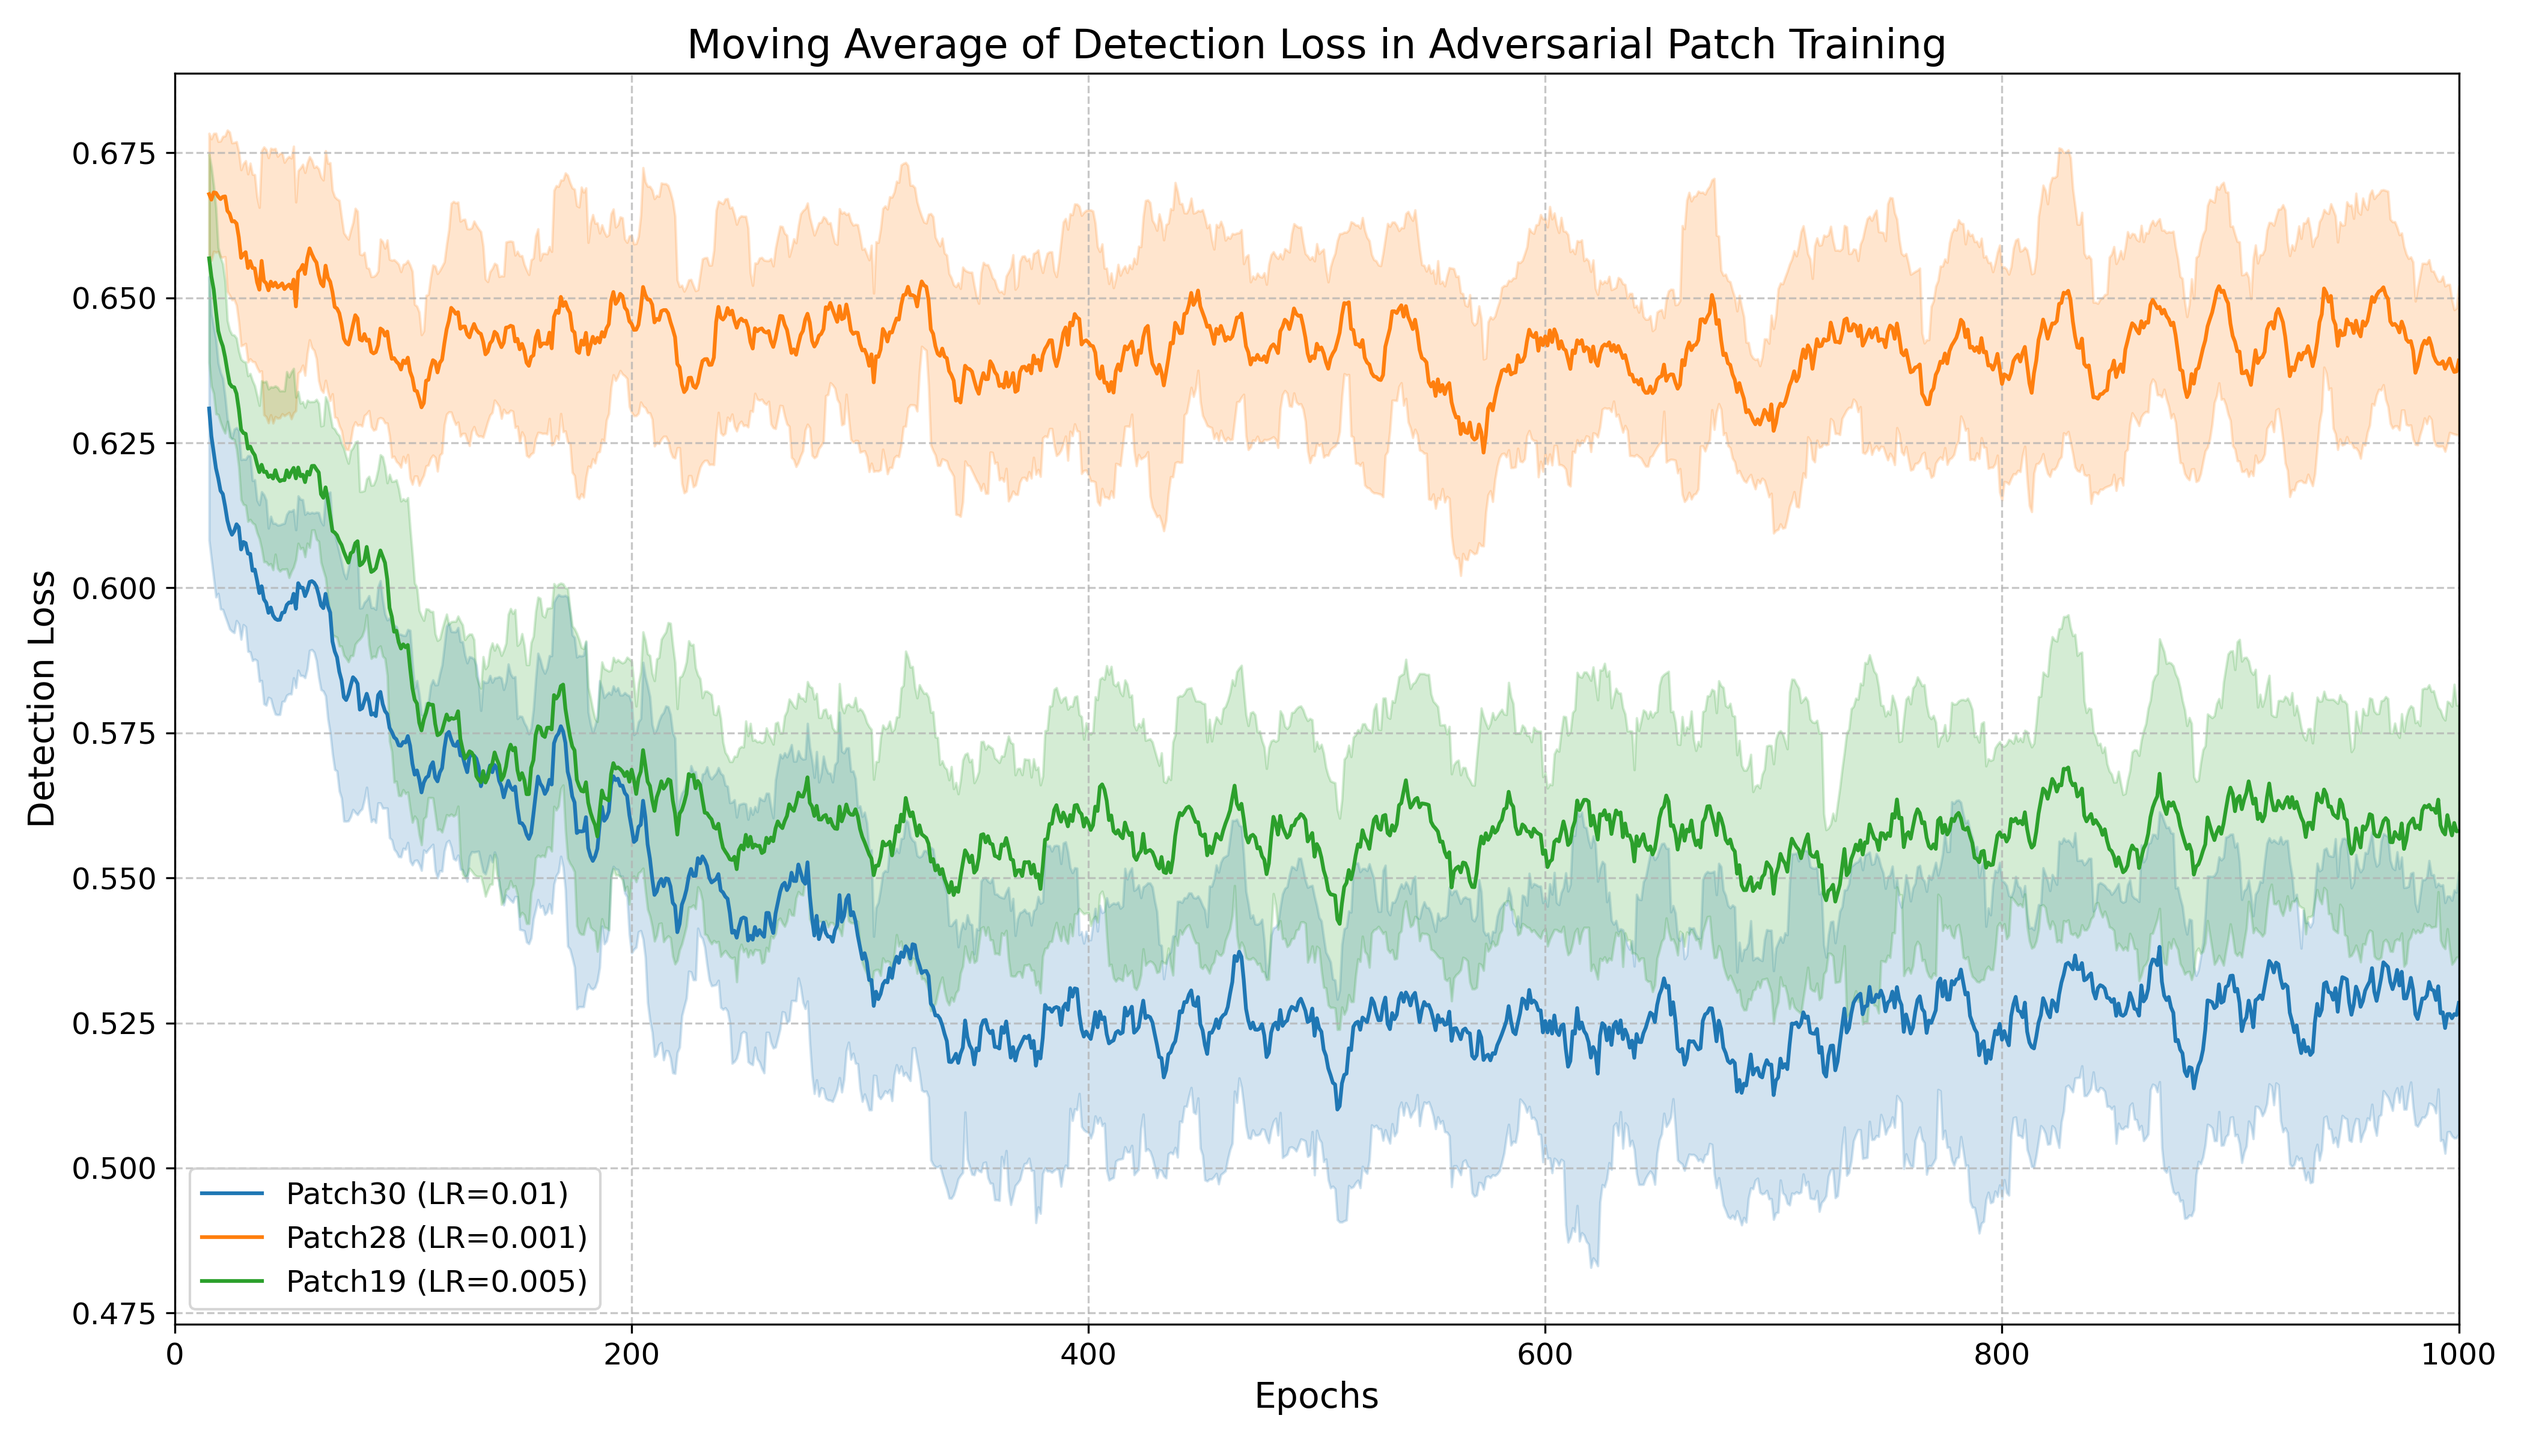
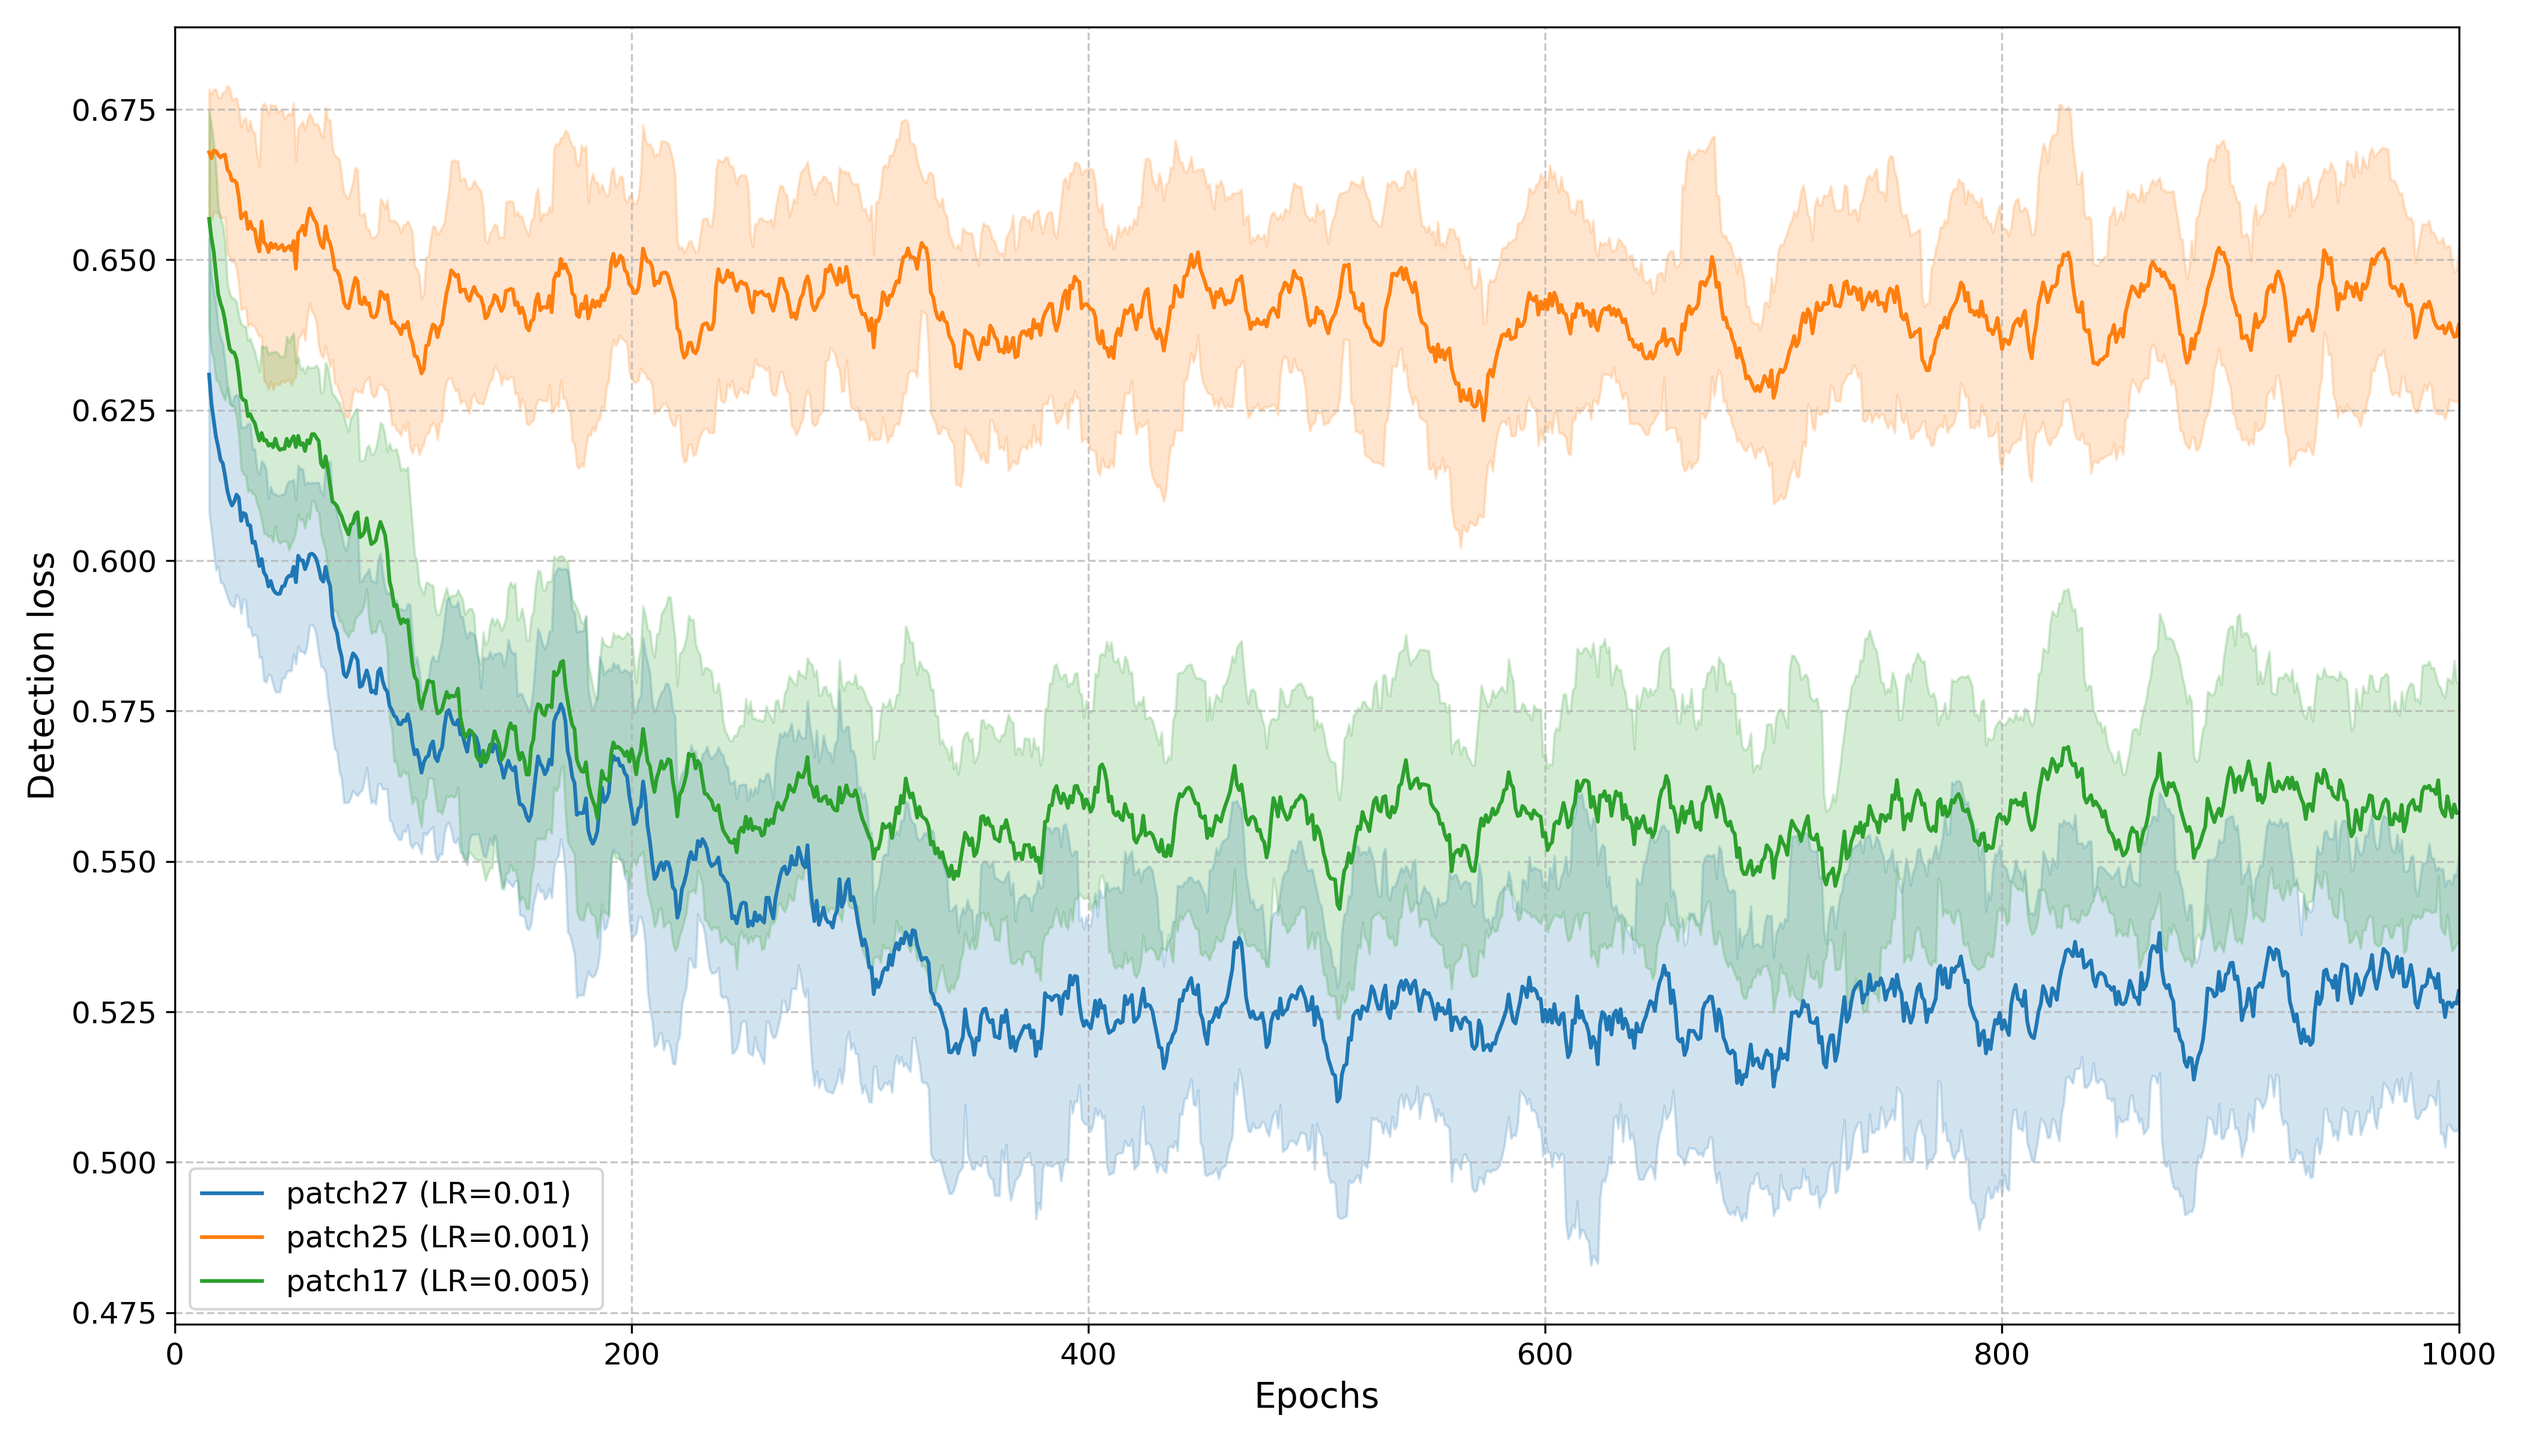
:sparkles: New experiments and corrected dloss graph

diff --git a/dloss_graphs.py b/dloss_graphs.py
@@ -26,18 +26,18 @@ df3['Std Dev'] = df3['Value'].rolling(window=window_size).std()
 plt.figure(figsize=(14, 8), dpi=300)  # High resolution for publication
 
 # Plot with Learning Rate information
-plt.plot(df1['Step'], df1['Moving Average'], label='Patch30 (LR=0.01)', color='C0')
+plt.plot(df1['Step'], df1['Moving Average'], label='patch27 (LR=0.01)', color='C0')
 plt.fill_between(df1['Step'], df1['Moving Average'] - df1['Std Dev'], df1['Moving Average'] + df1['Std Dev'], color='C0', alpha=0.2)
 
-plt.plot(df2['Step'], df2['Moving Average'], label='Patch28 (LR=0.001)', color='C1')
+plt.plot(df2['Step'], df2['Moving Average'], label='patch25 (LR=0.001)', color='C1')
 plt.fill_between(df2['Step'], df2['Moving Average'] - df2['Std Dev'], df2['Moving Average'] + df2['Std Dev'], color='C1', alpha=0.2)
 
-plt.plot(df3['Step'], df3['Moving Average'], label='Patch19 (LR=0.005)', color='C2')
+plt.plot(df3['Step'], df3['Moving Average'], label='patch17 (LR=0.005)', color='C2')
 plt.fill_between(df3['Step'], df3['Moving Average'] - df3['Std Dev'], df3['Moving Average'] + df3['Std Dev'], color='C2', alpha=0.2)
 
-plt.title('Moving Average of Detection Loss in Adversarial Patch Training', fontsize=16)
+# plt.title('Moving Average of Detection Loss in Adversarial Patch Training', fontsize=16)
 plt.xlabel('Epochs', fontsize=14)
-plt.ylabel('Detection Loss', fontsize=14)
+plt.ylabel('Detection loss', fontsize=14)
 plt.legend(fontsize=12)
 plt.grid(True, linestyle='--', alpha=0.7)
 

diff --git a/evaluation.py b/evaluation.py
@@ -66,9 +66,9 @@ enable_no_random           = True            # NOT random patch "light and shado
 enable_check_patch         = False           # check input patch by human
 # patch
 cls_id_attacked            = 0               # ID of the object to which the patch is posted
-patch_scale                = 0.2             # patch size
+patch_scale                = 0.22             # patch size
 max_labels_per_img         = 19              # maximum number of objects per image
-patch_mode                 = 3              # options: 0(patch), 1(white), 2(gray), 3(random)
+patch_mode                 = 0              # options: 0(patch), 1(white), 2(gray), 3(random)
 # fake_images_path           = "../adversarial-attack-ensemble/patch_sample/3output.png"
 # fake_images_path           = "../adversarial-attack-ensemble/exp/exp07/generated/generated-images-1000.png"
 fake_images_path = apt1.patch
